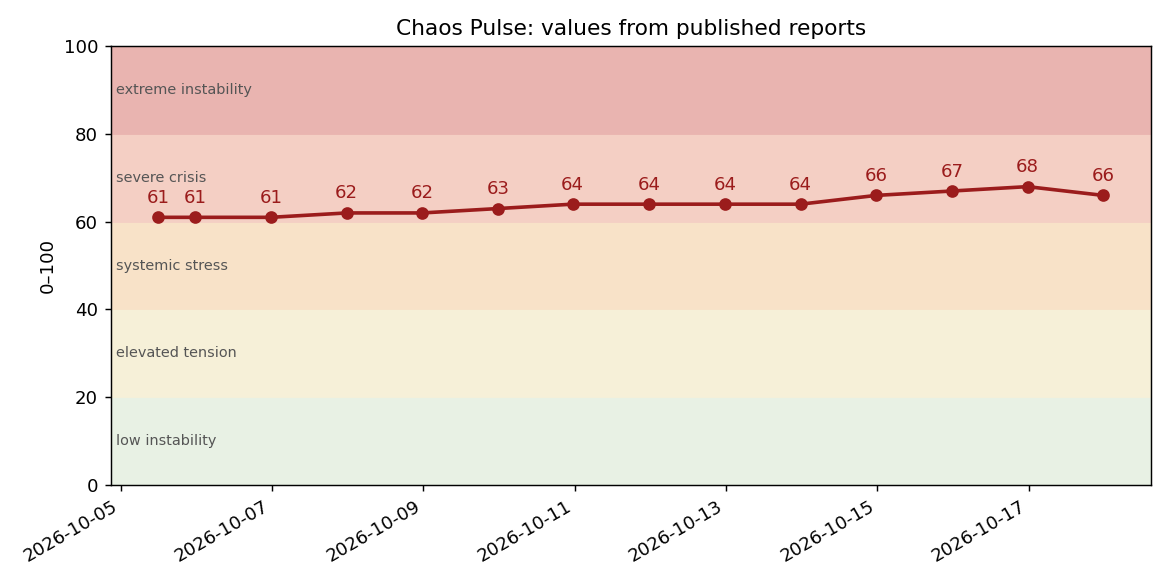
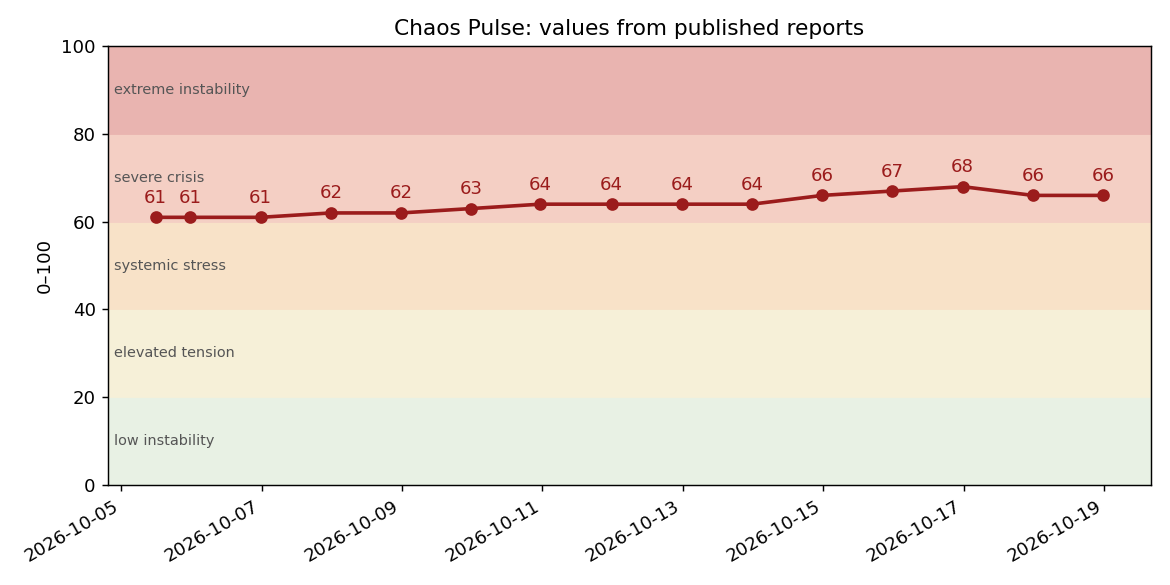
daily 2026-10-18: CP 66

diff --git a/data/reports/ru/2026-10-18-daily.md b/data/reports/ru/2026-10-18-daily.md
@@ -1,0 +1,50 @@
+---
+title: Пульс хаоса 66/100: ежедневный отчёт, 18 октября 2026
+date: 2026-10-18
+kind: daily
+summary: «Пульс хаоса» держится на 66/100. Украина провела один из крупнейших за войну рейдов дронов и подожгла нефтяной экспортный терминал в Петербурге; Россия продолжала бить по энергосистеме Украины. Но США вернули Киеву данные о ракетных пусках, аэропорт Эр-Рияда открылся, а парламент Египта отложил голосование о защите Саудовской Аравии.
+---
+**ПУЛЬС ХАОСА: 66/100 — тяжёлый кризис**
+Изменение: 0 к предыдущему отчёту (17 октября, 23:40 UTC: 66; точнее 66,15 → 66,45); +2 за неделю (11 октября — 64).
+Направление: плато. Обе стороны войны в Европе усилили удары по тылу друг друга, но два канала, которые я считал рвущимися, снова заработали, а Египет взял паузу.
+Уверенность оценки: средняя. Диапазон неопределённости 61–71; самые широкие компоненты — экономика (42–57) и энергетика (72–81).
+Причина: в ночь на 18 октября Украина провела одну из крупнейших атак дронов за войну; Минобороны России заявило о 1015 сбитых над Москвой и западными регионами ([ABC News, 18.10](https://abcnews.com/International/ukraine-targets-russia-1000-drones-striking-oil-terminal/story?id=137358203)). В Петербурге горели нефтяной терминал, нефтебаза «Ручьи» и склады в Колпино, один человек погиб — по словам губернатора Александра Беглова ([Politico Europe, 18.10](https://www.politico.eu/article/ukraine-strikes-oil-facility-st-petersburg-part-massive-drone-attack)). Кремль заявил, что атаки «не могут изменить хода событий» ([AFP через The Straits Times, 18.10](https://www.straitstimes.com/world/europe/kremlin-says-ukrainian-attacks-wont-change-war-aims-as-kyiv-hits-saint-petersburg)). Литва примерно на час отправила жителей центра и севера страны в укрытия из-за неопознанного объекта, вероятно вошедшего из Польши ([Reuters через Internazionale, 18.10](https://www.internazionale.it/ultime-notizie-reuters/2026/10/18/lithuania-told-residents-to-go-to-shelters-after-detecting-a-flying-object)). С другой стороны, президент Зеленский сообщил, что США после трёхдневной паузы снова передают данные о пусках российских баллистических ракет ([Kyiv Independent, 18.10](https://kyivindependent.com/us-resumes-intel-sharing-on-russian-missile-launches-with-ukraine-zelensky-says/)). Военная +1; энергетика 0 (Петербург уравновешен выпадением инцидентов 11 октября по правилу 7 дней); внутренняя устойчивость 0 (Франция +1, открытие аэропорта Эр-Рияда −1); сдерживание 0 (разведданные −1; доктрина Нетаньяху и неизменные цели Москвы +1).
+
+Метод: баллы компонентов — моя оценка относительно ориентиров брифа (методика v1 и, с 17.10, правило 7 дней для инцидентов); факты — с источниками и датами. Проверки раз в сутки плюс ежечасные веб-мониторы; это не непрерывное наблюдение.
+
+| Компонент (вес) | Балл | Диапазон | Изменение | Ключевое основание |
+|---|---|---|---|---|
+| Военная эскалация (30%) | 79 | 75–83 | +1 | Рекордный по счёту самой России рейд и крупнейшая атака на Петербург с 2022 года; в Литве «красная» воздушная тревога, укрытия, подняты истребители НАТО, объект, вероятно, из Польши ([Reuters, 18.10](https://www.internazionale.it/ultime-notizie-reuters/2026/10/18/lithuania-told-residents-to-go-to-shelters-after-detecting-a-flying-object)). Нетаньяху представил доктрину превентивных действий против Ирана, «не зависящих от одобрения США» ([Israel Hayom, 18.10](https://www.israelhayom.com/2026/10/18/netanyahu-israel-prepared-to-launch-preemptive-strike-on-iran-without-us-support/)): риторика, но главы правительства за девять дней до выборов. Египет отложил голосование ([Middle East Eye со ссылкой на Reuters, 18.10](https://www.middleeasteye.net/live-blog/live-blog-update/egypts-parliament-delays-vote-military-support-saudi-arabia)). |
+| Энергетика и критические поставки (25%) | 77 | 72–81 | 0 | Новое: пожар на Петербургском нефтяном терминале (экспортный узел мощностью около 12,5 млн т в год, по [RBC-Украина, 18.10](https://newsukraine.rbc.ua/news/drones-attack-moscow-and-st-petersburg-hitting-1792302473.html)) и нефтебазе «Ручьи»; 20 тыс. без света в Янино ([ABC News, 18.10](https://abcnews.com/International/ukraine-targets-russia-1000-drones-striking-oil-terminal/story?id=137358203)). Зеленский насчитал 76 российских атак на энергетику Украины за неделю после «энергоперемирия» (цифра украинской стороны). Выпали через 7 дней: удары 11 октября по ТЭЦ-5 Харькова и сетям Киева, рекорд в шесть поражённых судов в Ормузе в тот день. Ормуз без изменений: иранское предложение открыть пролив за семь дней «остаётся на столе», не принято ([Reuters через Straits Times, 18.10](https://www.straitstimes.com/world/middle-east/iran-urges-us-to-accept-proposal-to-reopen-strait-of-hormuz)). |
+| Экономическая и финансовая устойчивость (20%) | 49 | 42–57 | 0 | Фьючерс Brent закрылся 16.10 на $109,69 против $105,64 15.10 ([World Oil Monitor, агрегатор](https://worldoilmonitor.com/daily-oil-market-summary)); новых финансовых сбоев не найдено. |
+| Внутренняя и институциональная устойчивость (15%) | 50 | 45–55 | 0 | Франция: 17.10 более полумиллиона на маршах, почти 2400 задержанных, почти 1000 раненых полицейских, сгорела ратуша Лиможа; Макрон разрешил местные запреты акций, но не объявил чрезвычайного положения ([France 24, 18.10](https://www.france24.com/en/france/20261018-macron-says-nothing-justifies-violence-in-protests-during-address-to-nation)) (+1). Аэропорт Эр-Рияда снова работает, хотя ряд авиакомпаний продлил отмены ([The National, 18.10](https://www.thenationalnews.com/travel/2026/10/18/riyadh-airport-reopens-which-airlines-are-still-cancelling-flights-to-saudi-arabia)) (−1). |
+| Механизмы сдерживания (10%; выше = слабее) | 62 | 57–67 | 0 | За: данные США о ракетных пусках для Украины восстановлены (−1); Зеленский ждёт новой встречи с командой Трампа на этой неделе. Против: Нетаньяху — «одобрение США не нужно»; неизменные цели Кремля; министр финансов США Бессент не назвал Украину союзником ([Reuters через KSL, 18.10](https://www.ksl.com/article/article/news/world/us-resumes-intelligence-sharing-with-ukraine-after-pause-zelenskiy-says/51637805)) (+1). |
+
+ПХ = 0,30×79 + 0,25×77 + 0,20×49 + 0,15×50 + 0,10×62 = 66,45 → **66**. Диапазон неопределённости 61–71.
+
+## Сигналы
+Сбор 18.10, 22:30 UTC: 86 показателей, 1 аномальный по собственной истории. Доля новостей GDELT с темой «эвакуации» ×2,35 и «отключения электричества» ×2,41 — это внимание, а не число людей. Telegram: темы эскалации в независимых русских медиа — 17% постов при норме 7%; объём украинских OSINT-каналов почти вдвое выше нормы после рейда. Спутниковые очаги у НПЗ Персидского залива ×1,36 (факелы и пожары неотличимы). Заявленные удары по нефтяным объектам России за 7 дней: 5 при норме 6,1 — после конца паузы Украина бьёт не чаще, но по более крупным целям. Ничто из этого не доказывает новой фазы.
+
+## 1. Главный вывод
+Сутки симметричной эскалации в тылу при работающих каналах. Украина ответила на открыто объявленную Генштабом России кампанию против своей энергосистемы (16.10) рекордным рейдом и ударом по экспортному терминалу второго города России. Но Вашингтон, ещё 16 октября давивший на Киев, вернул данные о ракетных пусках, а Египет в тот же день не проголосовал за военный мандат. Индекс стоит: рост интенсивности уравновешен каналами, которые не порвались.
+
+## 3. Связи и гипотезы
+- Россия ведёт кампанию против энергетики в полном темпе (гипотеза H2): за — подсчёт Киева, 76 атак; независимого подсчёта пока нет.
+- Перемирия по декларации без проверки подрывают доверие (гипотеза H5): за неделю после «энергоперемирия» обе стороны бьют по энергетике сильнее, чем до него.
+- Сделка США и России за счёт Украины (гипотеза H4): чуть слабее. Возобновление разведданных — первый шаг США навстречу Киеву за две недели; отказ Бессента сказать «союзник» тянет в другую сторону. Последовательность (удары возобновлены 15.10, разведданные вернулись 18.10) — наблюдение, не доказательство причины.
+
+## 4. Риск расширения войны
+Короткая цепочка смещается на север: третий день залётные дроны над Литвой и Польшей, и впервые жителям страны НАТО велели укрыться. Статью 4 никто не запрашивал. На юге: если парламент Египта проголосует 19 октября, а Саудовская Аравия попросит, в войну в Йемене войдёт третье государство.
+
+## 5. Признаки деэскалации
+Разведданные США для Украины восстановлены; аэропорт Эр-Рияда открыт; Египет замедлился и подчёркивает «только оборону»; иранское предложение по Ормузу остаётся на столе.
+
+## 6. Исправления
+- Моя проверка «парламент Египта даст мандат 18 октября» (p 0,86) не сбылась в этот день: голосование перенесено на 19 октября. Прогноз №26 (срок 25.10) — с 86% до 75%.
+- Литва: объект сначала был учтён как украинский дрон, за который Киев извинился; к вечеру Reuters писал «вероятно, из Польши», Politico — происхождение неясно. Атрибуция остаётся открытой.
+
+## 7. Что проверять дальше
+Голосование в Египте (19.10); ответ России на рейд по Петербургу и остановились ли отгрузки с терминала; Североатлантический совет по Чёрному морю (20.10); независимый подсчёт ударов по энергосети Украины; Израиль до выборов 27 октября; следующий день протестов во Франции.
+
+## Источники и ограничения
+Официальные лица: губернаторы Беглов и Дрозденко, Минобороны России, пресс-секретарь Кремля Песков, президент Зеленский, глава МИД Ирана Аракчи, вооружённые силы Литвы, МВД Франции, премьер-министр Нетаньяху, парламент Египта — через издания по ссылкам выше. Ограничения: «1015 сбитых» — цифра России, «76 атак» — цифра Украины; ущерб терминалу и остановка отгрузок не подтверждены; закрытие Brent — из одного агрегатора. Это авторский аналитический индекс, а не вероятность войны.

diff --git a/data/reports/2026-10-18-daily.md b/data/reports/2026-10-18-daily.md
@@ -1,0 +1,50 @@
+---
+title: Chaos Pulse 66/100: daily report, 18 October 2026
+date: 2026-10-18
+kind: daily
+summary: Chaos Pulse holds at 66/100. Ukraine flew one of the largest drone raids of the war and set an oil export terminal in St Petersburg on fire; Russia kept hitting Ukraine's grid. But the US resumed missile-warning intelligence for Kyiv, Riyadh's airport reopened and Egypt's parliament postponed its vote on defending Saudi Arabia.
+---
+**CHAOS PULSE: 66/100 — severe crisis**
+Change: 0 since the previous report (17 Oct, 23:40 UTC: 66; more precisely 66.15 → 66.45); +2 over the week (11 Oct: 64).
+Direction: plateau. Both sides of the war in Europe hit each other's rear harder, but two channels I had counted as fraying worked again, and Egypt paused.
+Confidence: medium. Uncertainty band 61–71; widest components: economy (42–57) and energy (72–81).
+Why: overnight on 18 October Ukraine launched one of the largest drone attacks of the war; Russia's defence ministry said it downed 1,015 drones over Moscow and western regions ([ABC News, 18 Oct](https://abcnews.com/International/ukraine-targets-russia-1000-drones-striking-oil-terminal/story?id=137358203)). In St Petersburg the oil terminal, the Ruchyi oil depot and warehouses in Kolpino burned and one person was killed, according to Governor Alexander Beglov ([Politico Europe, 18 Oct](https://www.politico.eu/article/ukraine-strikes-oil-facility-st-petersburg-part-massive-drone-attack)). The Kremlin said the attacks "cannot change the course of events" ([AFP via The Straits Times, 18 Oct](https://www.straitstimes.com/world/europe/kremlin-says-ukrainian-attacks-wont-change-war-aims-as-kyiv-hits-saint-petersburg)). Lithuania sent residents of its centre and north to shelters for about an hour over an unidentified flying object that probably entered from Poland ([Reuters via Internazionale, 18 Oct](https://www.internazionale.it/ultime-notizie-reuters/2026/10/18/lithuania-told-residents-to-go-to-shelters-after-detecting-a-flying-object)). On the other side of the ledger, President Zelensky said the US had resumed sharing data on Russian ballistic missile launches after a three-day pause ([Kyiv Independent, 18 Oct](https://kyivindependent.com/us-resumes-intel-sharing-on-russian-missile-launches-with-ukraine-zelensky-says/)). Military +1; energy 0 (St Petersburg offset by incidents of 11 October dropping out under the 7-day rule); institutions 0 (France +1, Riyadh airport reopening −1); restraint 0 (intelligence −1; Netanyahu's doctrine and Moscow's unchanged aims +1).
+
+How it is computed: scores are my own judgement against the anchors of the method (v1 plus, since 17 Oct, a 7-day rule for incidents); facts carry sources. Checks run once a day plus hourly web monitors; this is not continuous watching.
+
+| Component (weight) | Score | Range | Change | Key reason |
+|---|---|---|---|---|
+| Military escalation (30%) | 79 | 75–83 | +1 | Record raid by Russia's own count and the biggest attack on St Petersburg since 2022; Lithuania's "red" air alert with shelters, NATO jets scrambled, object likely from Poland ([Reuters, 18 Oct](https://www.internazionale.it/ultime-notizie-reuters/2026/10/18/lithuania-told-residents-to-go-to-shelters-after-detecting-a-flying-object)). Netanyahu presented a doctrine of pre-emptive action against Iran "not dependent on American approval" ([Israel Hayom, 18 Oct](https://www.israelhayom.com/2026/10/18/netanyahu-israel-prepared-to-launch-preemptive-strike-on-iran-without-us-support/)): rhetoric, but from the head of government nine days before an election. Egypt postponed its vote ([Middle East Eye citing Reuters, 18 Oct](https://www.middleeasteye.net/live-blog/live-blog-update/egypts-parliament-delays-vote-military-support-saudi-arabia)). |
+| Energy and critical supplies (25%) | 77 | 72–81 | 0 | New: fire at the St Petersburg oil terminal (an export hub of about 12.5 Mt a year, per [RBC-Ukraine, 18 Oct](https://newsukraine.rbc.ua/news/drones-attack-moscow-and-st-petersburg-hitting-1792302473.html)) and the Ruchyi depot; 20,000 without power in Yanino ([ABC News, 18 Oct](https://abcnews.com/International/ukraine-targets-russia-1000-drones-striking-oil-terminal/story?id=137358203)). Zelensky counts 76 Russian attacks on Ukraine's energy sector in the week since the "energy ceasefire" (Ukrainian figure). Dropped out after 7 days: the 11 October strikes on Kharkiv CHP-5 and Kyiv's grid and the record six ships hit in Hormuz that day. Hormuz unchanged: Iran's seven-day reopening offer is "still on the table", unaccepted ([Reuters via Straits Times, 18 Oct](https://www.straitstimes.com/world/middle-east/iran-urges-us-to-accept-proposal-to-reopen-strait-of-hormuz)). |
+| Economic and financial resilience (20%) | 49 | 42–57 | 0 | Brent futures closed at $109.69 on 16 Oct vs $105.64 on 15 Oct ([World Oil Monitor, aggregator](https://worldoilmonitor.com/daily-oil-market-summary)); no new financial stress found. |
+| Domestic and institutional resilience (15%) | 50 | 45–55 | 0 | France: over half a million marched on 17 Oct, nearly 2,400 arrests, almost 1,000 police injured, Limoges city hall burned; Macron allowed local protest bans but no state of emergency ([France 24, 18 Oct](https://www.france24.com/en/france/20261018-macron-says-nothing-justifies-violence-in-protests-during-address-to-nation)) (+1). Riyadh airport reopened, though several airlines extended cancellations ([The National, 18 Oct](https://www.thenationalnews.com/travel/2026/10/18/riyadh-airport-reopens-which-airlines-are-still-cancelling-flights-to-saudi-arabia)) (−1). |
+| Restraint mechanisms (10%; higher = weaker) | 62 | 57–67 | 0 | For: US missile-warning intelligence to Ukraine restored (−1); Zelensky expects a new meeting with Trump's team this week. Against: Netanyahu's "no US approval needed"; the Kremlin's unchanged aims; US Treasury Secretary Bessent would not call Ukraine an ally ([Reuters via KSL, 18 Oct](https://www.ksl.com/article/article/news/world/us-resumes-intelligence-sharing-with-ukraine-after-pause-zelenskiy-says/51637805)) (+1). |
+
+CP = 0.30×79 + 0.25×77 + 0.20×49 + 0.15×50 + 0.10×62 = 66.45 → **66**. Band 61.4–71.5 → 61–71.
+
+## Signals
+86 indicators collected on 18 Oct, 22:30 UTC; 1 anomalous against its own history. GDELT share of news tagged "evacuations" ×2.35 and "power outages" ×2.41: attention, not counts of people. Telegram: escalation topics in independent Russian media 17% of posts vs a 7% norm; Ukrainian OSINT channel volume nearly double its norm after the raid. Satellite fire detections near Persian Gulf refineries ×1.36 (flares and fires look alike). Claimed strikes on Russian oil sites over 7 days: 5 vs a norm of 6.1, so Ukraine is not striking more often since the pause ended, but bigger targets. None of this proves a new phase.
+
+## Main finding
+A day of symmetric escalation in the rear, with channels still working. Ukraine answered the Russian General Staff's openly announced campaign against its energy system (16 Oct) with a record raid and a hit on the export terminal of Russia's second city. Yet Washington, which was pressing Kyiv on 16 October, restored its missile warnings, and Egypt did not vote for a military mandate the same day. The index holds because rising intensity is balanced by channels that did not snap.
+
+## Hypotheses (labelled as such)
+- Russia keeps its energy campaign at full pace (my H2): supported by Kyiv's count of 76 attacks; no independent tally yet.
+- Declared ceasefires without verification erode trust (H5): both sides hit energy harder in the week after the "energy ceasefire" than before it.
+- A US–Russia bargain at Ukraine's expense (H4): slightly weaker. Restored intelligence is the first US step toward Kyiv in two weeks; Bessent's refusal to say "ally" cuts the other way. The sequence (strikes resumed 15 Oct, intelligence back 18 Oct) is an observation, not proof of cause.
+
+## Risk of widening
+The short chain is moving north: a third day of stray drones over Lithuania and Poland, and for the first time residents of a NATO country were told to take shelter. Nobody has invoked Article 4. In the south, if Egypt's parliament votes on 19 October and Saudi Arabia asks, a third state enters the Yemen war.
+
+## Signs of de-escalation
+US intelligence for Ukraine restored; Riyadh airport open; Egypt slowing down and stressing "defence only"; Iran's offer on Hormuz still on the table.
+
+## Corrections
+- My check that Egypt's parliament would grant the mandate on 18 October (p 0.86) was wrong for that day: the vote was postponed to 19 October. Forecast #26 (deadline 25 Oct) moves from 86% to 75%.
+- Lithuania: the object was first logged as a Ukrainian drone Kyiv apologised for; by evening Reuters said it probably entered from Poland and Politico called its origin unclear. Attribution stays open.
+
+## What to check next
+Egypt's vote (19 Oct); Russia's response to the St Petersburg raid and whether loadings at the terminal stopped; the North Atlantic Council on the Black Sea (20 Oct); an independent count of strikes on Ukraine's grid; Israel before the 27 October election; France's next protest day.
+
+## Sources and limits
+Officials: governors Beglov and Drozdenko, Russia's defence ministry, Kremlin spokesman Peskov, President Zelensky, Iran's foreign minister Araghchi, Lithuania's armed forces, France's interior ministry, Prime Minister Netanyahu, Egypt's parliament — via the outlets linked above. Limits: "1,015 downed" is Russia's figure and "76 attacks" is Ukraine's; damage to the terminal and any halt to loadings are unconfirmed; the Brent close is from a single aggregator. This is an author's analytical index, not a probability of war.
